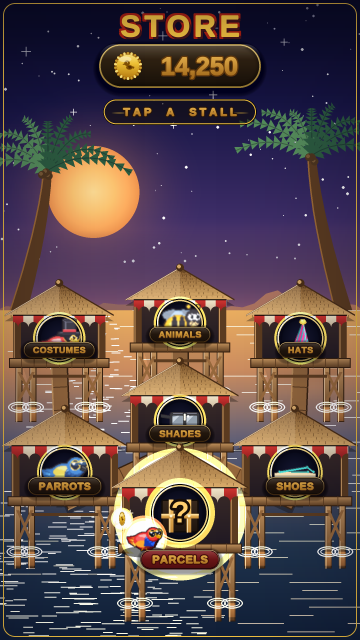
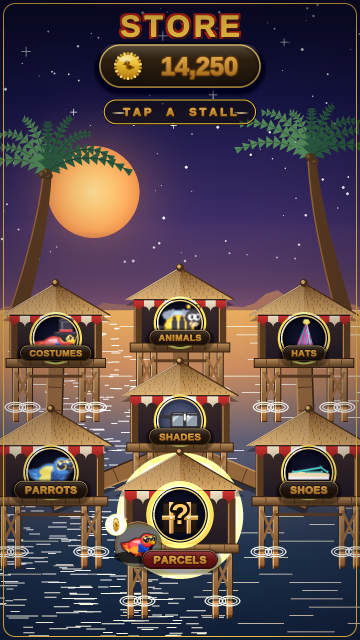
docs(store_bazaar): lagoon final revision (SHADES legible, hero guttered, Pip separated)
Claude-Session: https://claude.ai/code/session_01VWgQuAkvyxHkg8ghp6aQ5y

Changed region(s): [[0.0, 0.4375, 1.0, 0.9688], [0.3972, 0.5, 0.5806, 0.5625]]

diff --git a/docs/store_bazaar/lagoon_stilt/render.py b/docs/store_bazaar/lagoon_stilt/render.py
@@ -644,7 +644,14 @@ def draw_hut(surf, cx, deck_y, scale, group, label, hero=False):
     dome_cy = body_top + int(body_h * (0.40 if hero else 0.46))
     soft_glow(surf, dome_cx, dome_cy, dome_r + m(6), GOLD,
               46 if hero else 34, layers=8)
-    C.cabochon(surf, dome_cx, dome_cy, dome_r, C.CABO_LO, C.CABO_HI)
+    # SHADES is the one dark-on-dark preview (dark sunglasses on a dark parrot):
+    # against the near-black dome well it collapses in value. Give it a LIGHTER
+    # cool-slate dome backing so the eyewear reads as a positive shape like the
+    # other previews; everything else keeps the standard deep glass well.
+    if group == "shades" and not hero:
+        C.cabochon(surf, dome_cx, dome_cy, dome_r, (96, 104, 134), (44, 50, 78))
+    else:
+        C.cabochon(surf, dome_cx, dome_cy, dome_r, C.CABO_LO, C.CABO_HI)
     _place_thumb(surf, group, dome_cx, dome_cy, dome_r, hero)
     # Hero glass takes a warm GOLD tint (was mystery-red) so the prize dome stays
     # in the warm-gold family the rest of the village + the coin live in.
@@ -655,7 +662,9 @@ def draw_hut(surf, cx, deck_y, scale, group, label, hero=False):
     # The hero's board is deferred to render_device (drawn AFTER Pip + the coin)
     # so it sits frontmost in a clean horizontal lane with nothing crossing it.
     if not hero:
-        _hut_label(surf, label, cx, deck_y - int(m(20) * scale), scale, hero)
+        # nudged ~3px lower so the board clears the awning/roof-eave shadow above
+        # it (it was kissing that shadow on the back row).
+        _hut_label(surf, label, cx, deck_y - int(m(16) * scale), scale, hero)
 
     return half_w, roof_apex_y
 
@@ -684,6 +693,12 @@ def _place_thumb(surf, group, cx, cy, dome_r, hero):
     # CONSTELLATION thumbnail treatment) so it reads as the lit hero in glass.
     img = C._punch_contrast(img)
     r = img.get_rect(center=(cx, cy))
+    # SHADES' dark lenses need an extra GOLD key rim (on top of the standard
+    # rim light) so the eyewear silhouette pops off its slate backing rather
+    # than melting into it — the difference between "reads" and "near-reads".
+    if group == "shades":
+        surf.blit(C._rim_light(img, color=(255, 224, 150), alpha=210),
+                  r.topleft, special_flags=pygame.BLEND_ADD)
     surf.blit(C._rim_light(img), r.topleft, special_flags=pygame.BLEND_ADD)
     surf.blit(img, r.topleft)
 
@@ -771,17 +786,23 @@ def draw_pip(surf, cx, deck_y):
     pip = pygame.transform.smoothscale(pip, (int(pw * s), int(ph * s)))
     pr = pip.get_rect()
     # Pip stands at the FRONT-LEFT corner of the jetty deck — pushed further
-    # left + down than R1 so his silhouette sits BESIDE the centred name board
-    # (not across it) and clears the "?" dome above. The board lane stays clean.
-    px = cx - m(36)
-    py = deck_y - pr.height // 2 + m(7)
+    # left + DOWN off the deck lip than R3 so his silhouette FULLY clears the
+    # gold crate behind/above (crate-first, merchant-second front-to-back read)
+    # rather than merging with the crate face at the same value.
+    px = cx - m(42)
+    py = deck_y - pr.height // 2 + m(13)
     # warm aura behind Pip
     soft_glow(surf, px, py, m(26), SUN_AURA, 56, layers=10)
     soft_glow(surf, px, py, m(15), SUN_CORE, 78, layers=6)
-    # contact shadow on the jetty deck
-    sh = pygame.Surface((pr.width + m(6), m(11)), pygame.SRCALPHA)
-    pygame.draw.ellipse(sh, (0, 0, 0, 130), sh.get_rect())
-    surf.blit(sh, (px - (pr.width + m(6)) // 2, deck_y - m(3)))
+    # a dark separation halo hugging Pip so his lit silhouette pops off the
+    # crate face it sits in front of (a thin dark contour, not a cast shadow).
+    sep = pygame.Surface((pr.width + m(10), pr.height + m(10)), pygame.SRCALPHA)
+    pygame.draw.ellipse(sep, (8, 6, 14, 150), sep.get_rect())
+    surf.blit(sep, (px - sep.get_width() // 2, py - sep.get_height() // 2))
+    # darker + wider contact shadow on the jetty deck so he grounds clearly
+    sh = pygame.Surface((pr.width + m(10), m(13)), pygame.SRCALPHA)
+    pygame.draw.ellipse(sh, (0, 0, 0, 175), sh.get_rect())
+    surf.blit(sh, (px - (pr.width + m(10)) // 2, deck_y + m(1)))
     surf.blit(pip, pip.get_rect(center=(px, py)).topleft)
     # a small spinning coin floating to Pip's upper-LEFT, well clear of the dome
     # rim + the name board (foreshortened => a thin ellipse, reads mid-spin).
@@ -847,10 +868,12 @@ def _tap_hint(surf, cx, cy):
                      border_radius=rad)
     pygame.draw.rect(surf, (*GOLD, 150), r.inflate(-m(1.2), -m(1.2)),
                      width=max(1, m(1)), border_radius=rad)
-    # short gold rules flanking the type
-    gold_rule(surf, r.x + m(8), r.x + m(8) + m(16), cy, GOLD, peak=160, thick=m(1))
-    gold_rule(surf, r.right - m(8) - m(16), r.right - m(8), cy, GOLD, peak=160,
-              thick=m(1))
+    # short gold rules flanking the type — committed to a brighter pale-gold at
+    # +value + thicker so they read as intentional rules, not hairline noise.
+    gold_rule(surf, r.x + m(8), r.x + m(8) + m(16), cy, GOLD_PALE, peak=235,
+              thick=m(1.6))
+    gold_rule(surf, r.right - m(8) - m(16), r.right - m(8), cy, GOLD_PALE,
+              peak=235, thick=m(1.6))
     gradient_text(surf, "TAP  A  STALL", f, (cx, cy), GOLD_A_TOP, GOLD_A_BOT,
                   weight=m(0.9), keyline=(40, 22, 12), kw=m(0.9), shadow=False,
                   tracking=m(3))
@@ -900,13 +923,16 @@ LAYOUT = [
     # 0.68->0.80 and mid-row 0.84/0.76->0.92/0.86 so no stall feels tucked-away.
     # The two outer huts of each non-hero row are pulled to the canvas edges and
     # the centre hut sits a touch higher so all three roofs stay separated.
-    ("costume",  0.165, 0.572, 0.80, False),   # back-left
+    ("costume",  0.155, 0.572, 0.80, False),   # back-left
     ("animal",   0.500, 0.548, 0.80, False),   # back-centre (lifted)
-    ("hats",     0.835, 0.572, 0.80, False),   # back-right
-    ("parrot",   0.180, 0.788, 0.92, False),   # mid-left
-    ("shoes",    0.820, 0.788, 0.92, False),   # mid-right
+    ("hats",     0.845, 0.572, 0.80, False),   # back-right
+    # PARROTS + SHOES pulled ~8px further to the canvas edges so a clear
+    # dark-water gutter separates them from the lifted hero deck (was 0.180 /
+    # 0.820 — they crowded the hero, reading as one central mass).
+    ("parrot",   0.142, 0.788, 0.92, False),   # mid-left
+    ("shoes",    0.858, 0.788, 0.92, False),   # mid-right
     ("shades",   0.500, 0.704, 0.86, False),   # mid-centre, tucked slightly back
-    ("parcels",  0.500, 0.862, 1.00, True),    # hero jetty, frontmost
+    ("parcels",  0.500, 0.862, 0.96, True),    # hero jetty, frontmost (deck shaved)
 ]
 LABELS = {g: lbl for g, lbl in STALLS}
 

diff --git a/docs/store_bazaar/lagoon_stilt/notes.md b/docs/store_bazaar/lagoon_stilt/notes.md
@@ -59,6 +59,40 @@ palms framing, Pip the jetty merchant), the gold-on-red STORE header + balance
 capsule + real coin glyph, the golden-hour→indigo CONSTELLATION sky bridge, the
 tasteful gold sun-glitter column, the red/cream awnings + carved name boards.
 
+## Round 3 — final ITERATE pass (AD confirmed both big wins; closed 5 beats)
+The art-director's review of round_3 confirmed the two big wins are GENUINELY
+fixed and must be KEPT — (A) the red-from-beneath is gone (natural cool
+reflections, pixel-sample verified) and (B) all 7 stalls read — and returned
+VERDICT: ITERATE on five fixable beats. All five landed in this same round_3
+(overwritten in place):
+
+1. **SHADES preview legibility** (top priority — the one stall that still
+   near-failed): dark sunglasses on a dark parrot collapsed against the near-
+   black dome well. FIX: the SHADES dome interior now gets a LIGHTER cool-slate
+   backing (`cabochon((96,104,134),(44,50,78))` instead of the deep
+   `CABO_LO/HI`), plus an extra GOLD key rim-light (`_rim_light((255,224,150),
+   alpha=210)`) on the eyewear. The lenses now read as a positive shape like the
+   other previews.
+2. **Guttered the hero crate off its flankers**: the lifted PARCELS hero
+   overlapped PARROTS (left) + SHOES (right), reading as one central mass. FIX:
+   PARROTS `0.180→0.142` and SHOES `0.820→0.858` pulled to the canvas edges, and
+   the hero scale shaved `1.00→0.96`, so a clear dark-water gutter separates the
+   three central stalls. (COSTUMES/HATS nudged out `0.165/0.835→0.155/0.845` to
+   match.)
+3. **Separated Pip from the crate**: Pip pushed further front-left + DOWN off the
+   deck lip (`cx-m(36)→cx-m(42)`, `+m(7)→+m(13)`), given a thin dark separation
+   halo behind his silhouette + a darker/wider contact shadow (α130→175), so the
+   read order is crate-first, merchant-second in a clean front-to-back stack.
+4. **(polish) Back-row board air**: non-hero name boards lifted `deck_y-m(20)→
+   deck_y-m(16)` so they clear the awning/roof-eave shadow above them.
+5. **(polish) TAP A STALL rules**: the flanking gold rules were near-invisible
+   hairlines → committed to bright `GOLD_PALE` at `peak 160→235`, `thick
+   m(1)→m(1.6)` so they read as intentional rules, not render noise.
+
+Preserved per the AD note: the gold-banded `?` crate, the warm-gold disc sun +
+star carve-out, the gold-on-red STORE header echo, the palm-framed depth, and
+the constellation sky bridge.
+
 ## Round 2 — art-director ITERATE pass (one revision)
 Verdict was ITERATE: strong concept + real craft, undermined mainly by the
 oversized sun. The prioritized punch list, all addressed in this pass:
